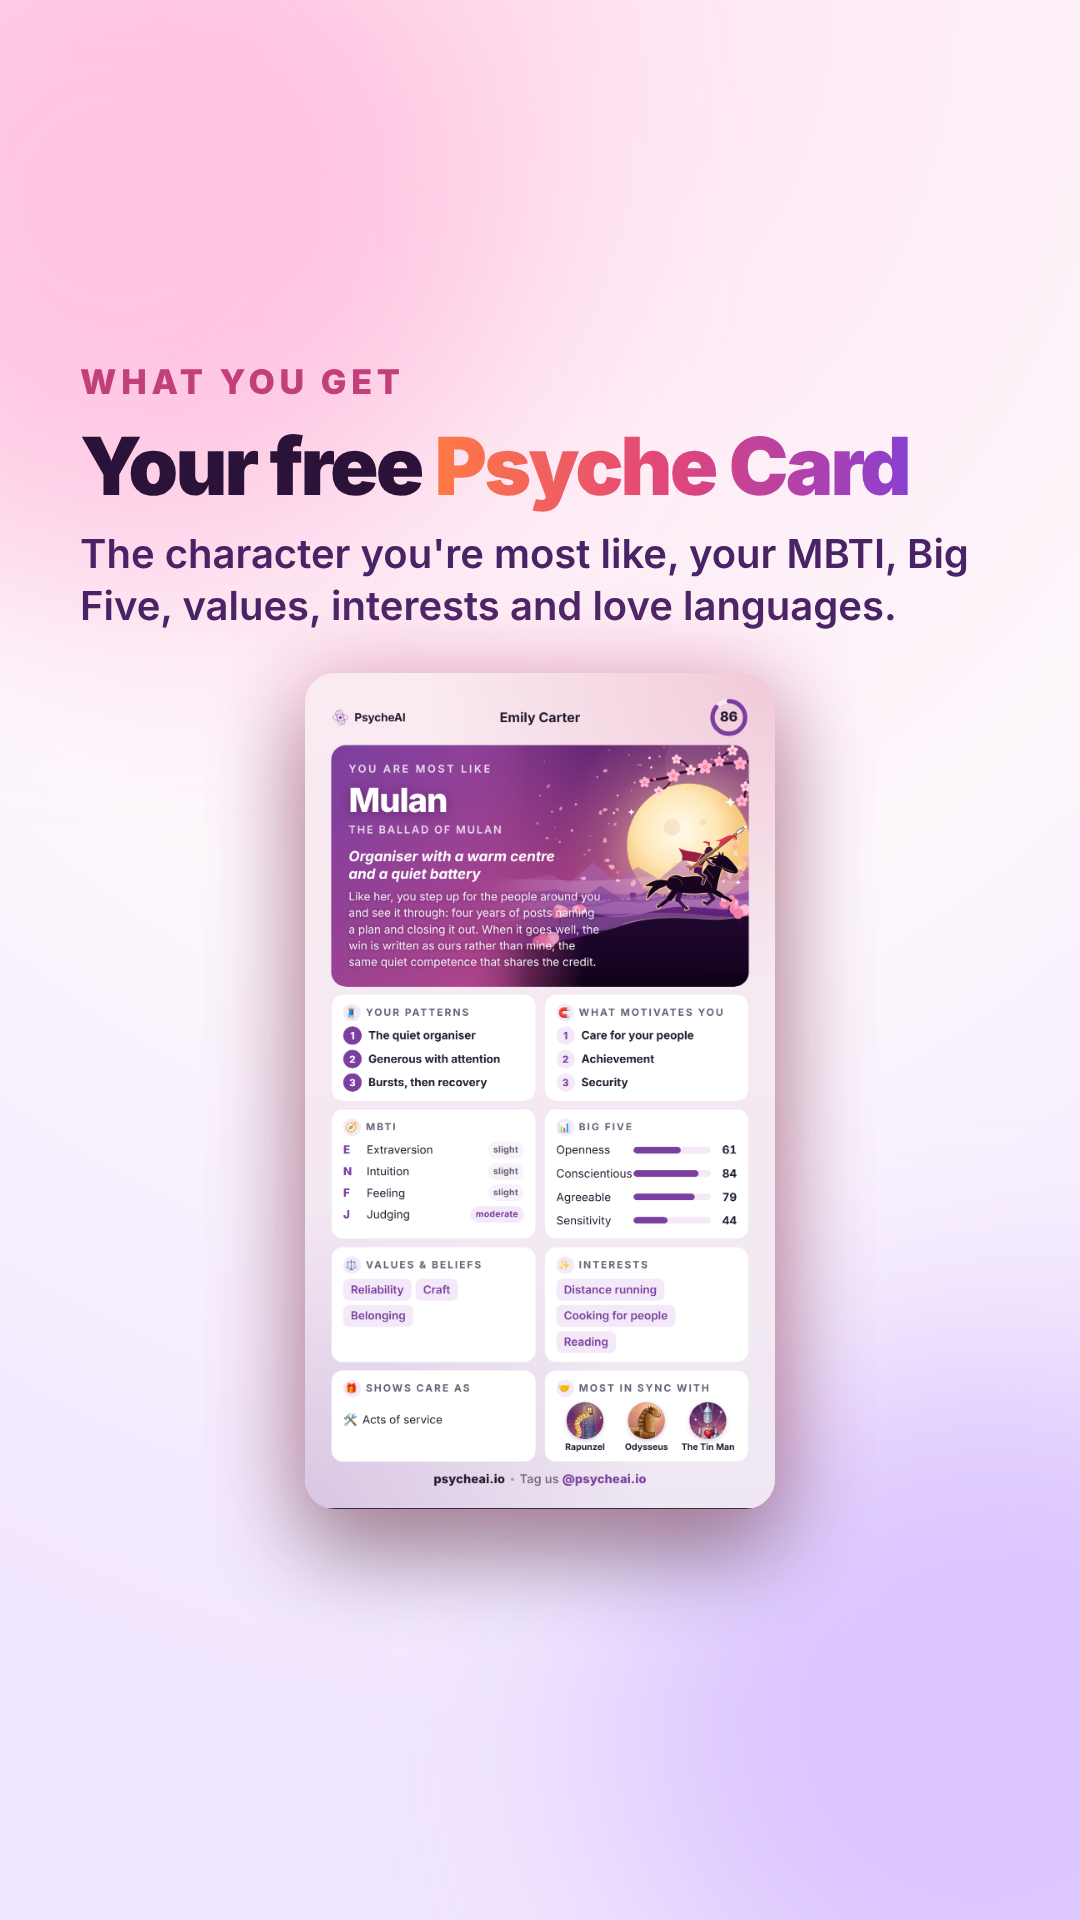
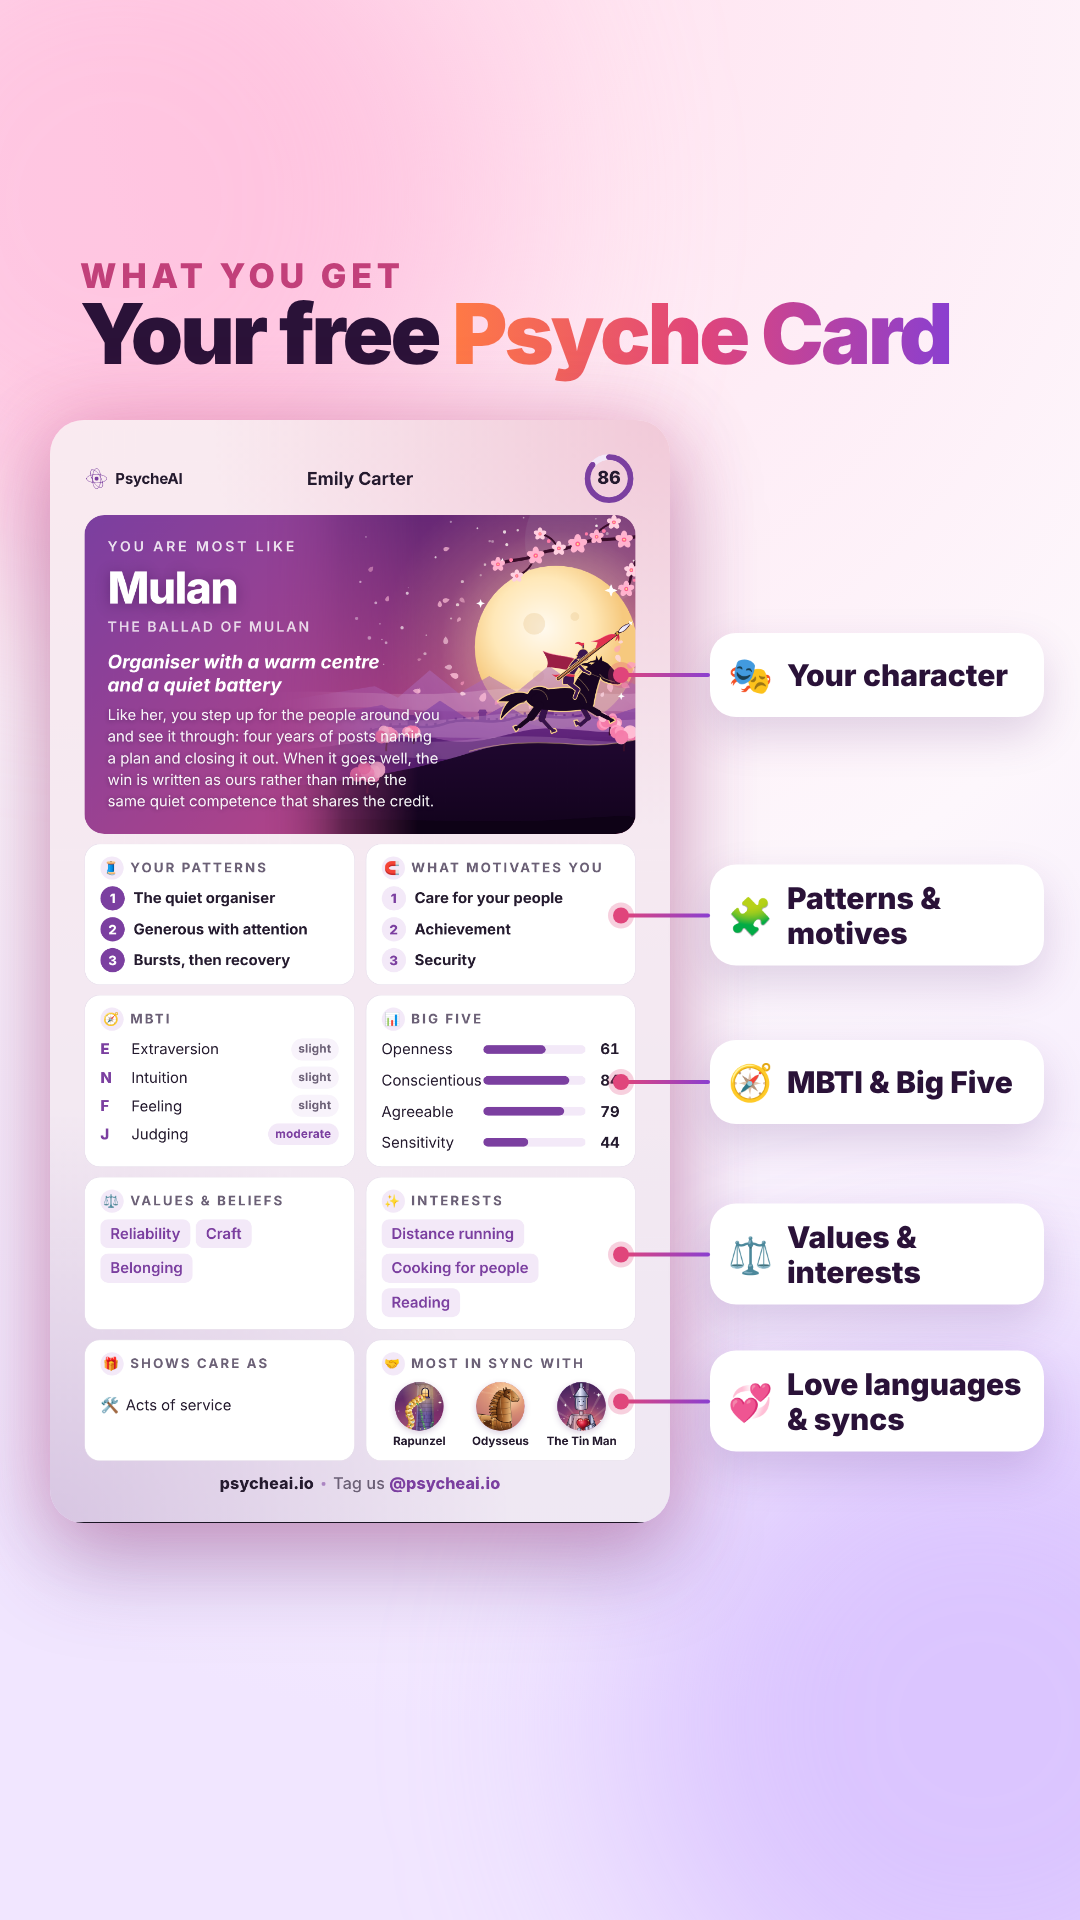
Start here: the card large with its key parts named beside it; the roast as an honest roast about you
Claude-Session: https://claude.ai/code/session_01BKbBivdSx1ByKkp8YWCRTE

diff --git a/promo/stories-stage.html b/promo/stories-stage.html
@@ -104,6 +104,13 @@ h2 { margin-top: 22px; font-size: 80px; font-weight: 900; letter-spacing: -0.035
 .qa2[data-name="privacy-2"] .a { padding: 24px 34px; }
 .qa2[data-name="privacy-2"] .a .yes { font-size: 48px; }
 .qa2[data-name="privacy-2"] .a p { font-size: 33px; }
+/* The card, large, its key parts named beside it with a line to each. */
+.callout { position: absolute; left: 710px; right: 36px; transform: translateY(-50%); min-height: 84px; display: flex; align-items: center; gap: 14px; padding: 0 22px 0 18px;
+  border-radius: 26px; background: #fff; box-shadow: 0 18px 44px rgba(90,40,120,.18); color: #2a1238; }
+.callout span { font-size: 36px; }
+.callout b { font-size: 30px; font-weight: 850; line-height: 1.15; padding: 16px 0; }
+.callout i { position: absolute; right: 100%; top: 50%; width: 90px; height: 4px; margin-top: -2px; background: linear-gradient(90deg, #e0457b, #8a3fd0); border-radius: 2px; }
+.callout i::before { content: ''; position: absolute; left: -7px; top: -6px; width: 16px; height: 16px; border-radius: 50%; background: #e0457b; box-shadow: 0 0 0 5px rgba(224,69,123,.25); }
 </style></head>
 <body>
 
@@ -126,12 +133,14 @@ h2 { margin-top: 22px; font-size: 80px; font-weight: 900; letter-spacing: -0.035
 
 <section class="slide light" data-name="start-2">
   <div class="blob b1"></div><div class="blob b2"></div>
-  <div class="in" style="justify-content:center">
-    <div class="kicker">What you get</div>
-    <h2>Your free <span class="grad">Psyche Card</span></h2>
-    <p class="lede" style="font-size:40px;margin-top:20px">The character you're most like, your MBTI, Big Five, values, interests and love languages.</p>
-    <img class="card" src="assets/card-char-mulan.png" style="width:470px">
-  </div>
+  <div class="kicker" style="position:absolute;left:80px;top:255px">What you get</div>
+  <h2 style="position:absolute;left:80px;right:60px;top:290px;margin:0;font-size:84px">Your free <span class="grad">Psyche Card</span></h2>
+  <img src="assets/card-char-mulan.png" style="position:absolute;left:50px;top:420px;width:620px;border-radius:34px;box-shadow:0 0 80px rgba(224,69,123,.3),0 40px 90px rgba(90,40,120,.35)">
+  <div class="callout" style="top:675px"><i></i><span>🎭</span><b>Your character</b></div>
+  <div class="callout" style="top:915px"><i></i><span>🧩</span><b>Patterns &amp; motives</b></div>
+  <div class="callout" style="top:1082px"><i></i><span>🧭</span><b>MBTI &amp; Big Five</b></div>
+  <div class="callout" style="top:1254px"><i></i><span>⚖</span><b>Values &amp; interests</b></div>
+  <div class="callout" style="top:1401px"><i></i><span>💞</span><b>Love languages &amp; syncs</b></div>
 </section>
 
 <section class="slide" data-name="start-3">
@@ -143,7 +152,7 @@ h2 { margin-top: 22px; font-size: 80px; font-weight: 900; letter-spacing: -0.035
       <div class="step"><div class="num">📖</div><div><b>Psyche Report</b><span>Every part of your card explained with evidence, plus attachment style, ideal partner, career coaching and a development plan.</span></div></div>
       <div class="step"><div class="num">💬</div><div><b>Ask PsycheAI</b><span>Your coach, answering your questions from your own report.</span></div></div>
       <div class="step"><div class="num">🤝</div><div><b>Psyche Sync</b><span>See how in sync you are with a friend, and how to get on better.</span></div></div>
-      <div class="step"><div class="num">🔥</div><div><b>Your roast</b><span>An honest roast with every card, then what an honest friend would tell you.</span></div></div>
+      <div class="step"><div class="num">🔥</div><div><b>Your roast</b><span>An honest roast about you, then what an honest friend would tell you.</span></div></div>
     </div>
   </div>
 </section>

diff --git a/promo/README.md b/promo/README.md
@@ -445,7 +445,8 @@ node promo/stories.mjs   # marketing/stories/start-1..4.png and privacy-1..3.png
 
 Still images for the Instagram highlights *Start here* and *Privacy* (25 October 2026), as few as will hold it, one
 page (`stories-stage.html`) with a `<section data-name>` per slide. *Start here* (4): what PsycheAI is, with the
-four data sources it reads; the free card (Emily Carter's Mulan card); what else there is (report, Ask PsycheAI,
+four data sources it reads; the free card (Emily Carter's Mulan card, large, its key parts named beside it from
+card-char-mulan-parts.json); what else there is (report, Ask PsycheAI,
 Psyche Sync, the roast; "free to start" once, in the heading); the guide as the account's pinned post lays it out
 (every tap, each button a chip). *Privacy* (3): seven questions, two or three to a story, each answered in the FAQ's
 own words, shortened, so every claim stays literally true: the file never leaves the phone, how the summary is
